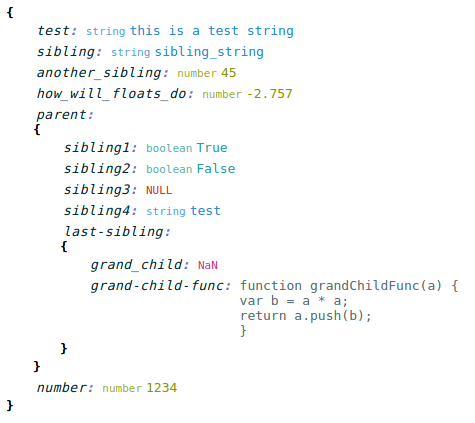
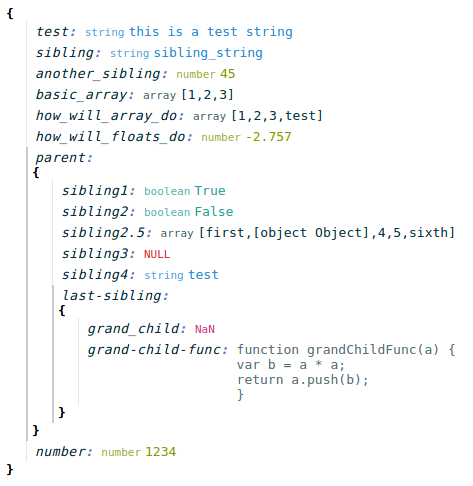
updated docs

diff --git a/src/js/entry.js b/src/js/entry.js
@@ -40,29 +40,3 @@ ReactDom.render(
     </div>,
     app
 );
-
-
-
-
-// {
-//     test: 'this is a test string',
-//     sibling: 'sibling_string',
-//     another_sibling: 45,
-//     how_will_array_do: [1, 2, 3, 'test'],
-//     how_will_floats_do: -2.757,
-//     parent: {
-//         sibling1: true,
-//         sibling2: false,
-//         "sibling2.5": ['first', {'second': true}, [4, 5, 'sixth']],
-//         sibling3: null,
-//         sibling4: 'test',
-//         'last-sibling': {
-//             grand_child: NaN,
-//             'grand-child-func': (a) => {
-//                 let b = a*a;
-//                 return a.push(b);
-//             }
-//         }
-//     },
-//     number: 1234
-// }
